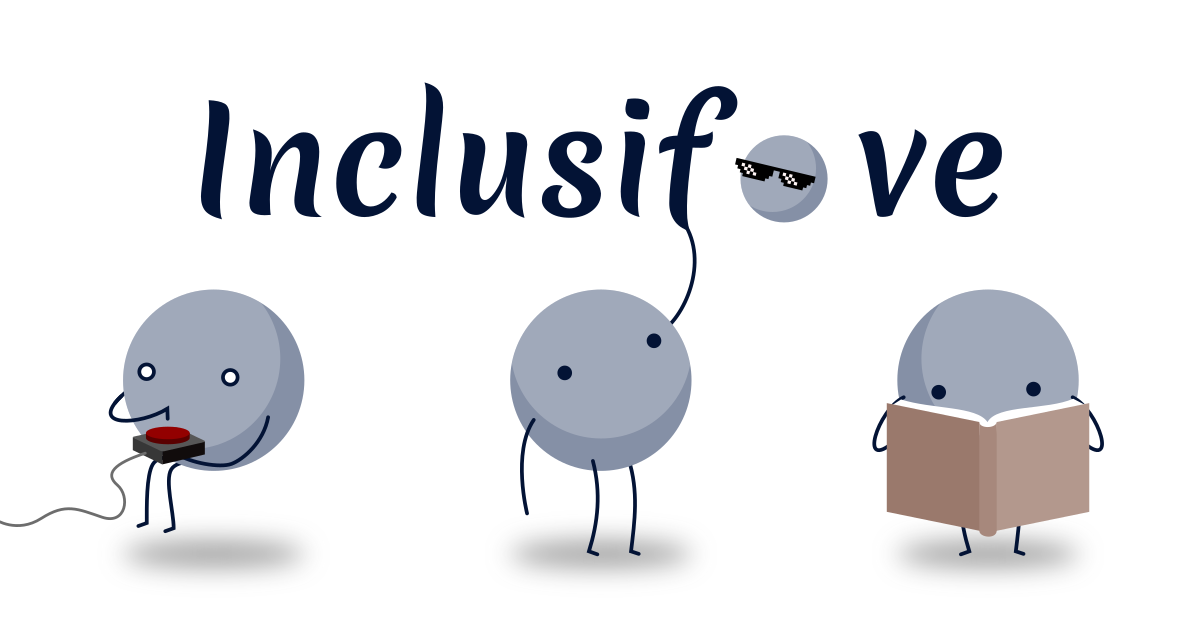
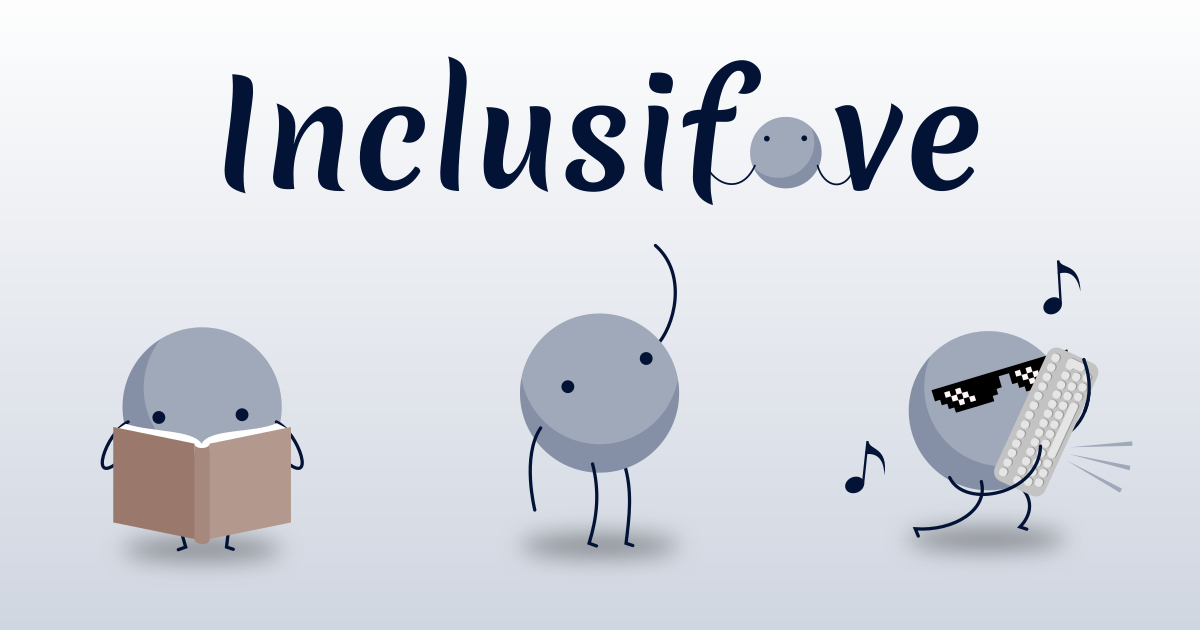
New section (outils)

diff --git a/index.html b/index.html
@@ -17,20 +17,23 @@ $(document).ready(function() {
 		});
 	}
 	
-	setClassScrollSpeed('.js-scroll-top-principe', 800);
-	setClassScrollSpeed('.js-scroll-top-questions', 900);
+	setClassScrollSpeed('.js-scroll-top-principe', 600);
+	setClassScrollSpeed('.js-scroll-top-questions', 800);
 	setClassScrollSpeed('.js-scroll-top-quiz', 1000);
+	setClassScrollSpeed('.js-scroll-top-outils', 1000);
 	
-	setClassScrollSpeed('.js-scroll-principe-top', 800);
-	setClassScrollSpeed('.js-scroll-questions-top', 900);
+	setClassScrollSpeed('.js-scroll-principe-top', 600);
+	setClassScrollSpeed('.js-scroll-questions-top', 800);
 	setClassScrollSpeed('.js-scroll-quiz-top', 1000);
+	setClassScrollSpeed('.js-scroll-outils-top', 1000);
 });
 </script>
 
 <ul class="menu">
 	<li><a class="js-scroll-top-principe" href="#principe"><img src="{{ site.basepath }}images/epicene-lecture.png" alt="Le principe"/><br/>Le principe</a></li>
 	<li><a class="js-scroll-top-questions" href="#questions"><img src="{{ site.basepath }}images/epicene-question.png" alt="Questions / Réponses"/><br/>Questions / Réponses</a></li>
-	<li><a class="js-scroll-top-quiz" href="#quiz"><img src="{{ site.basepath }}images/epicene-quizz.png" alt="Essayer le quiz"/><br/>Essayer le quiz</a></li>
+	<li><a class="js-scroll-top-quiz" href="#quiz"><img src="{{ site.basepath }}images/epicene-quiz.png" alt="Essayer le quiz"/><br/>Essayer le quiz</a></li>
+	<li><a class="js-scroll-top-outils" href="#outils"><img src="{{ site.basepath }}images/epicene-keyboard.png" alt="Outils"/><br/>Outils informatiques</a></li>
 </ul>
 
 <h2 id="principe">Le principe <a class="titleButton js-scroll-principe-top" href="#top"><i class="fa fa-chevron-up" aria-hidden="true"></i></a></h2>
@@ -117,3 +120,4 @@ $(document).ready(function() {
 %}
 
 <h2 id="quiz">Quiz <a class="js-scroll-quiz-top titleButton" href="#top"><i class="fa fa-chevron-up" aria-hidden="true"></i></a></h2>
+<h2 id="outils">Outils informatiques <a class="js-scroll-outils-top titleButton" href="#top"><i class="fa fa-chevron-up" aria-hidden="true"></i></a></h2>

diff --git a/_includes/header.html b/_includes/header.html
@@ -16,7 +16,7 @@
 	<meta property="og:url" content="{{ site.url }}/{{ page.permalink }}" />
 	<meta property="og:type" content="article" />
 
-	<script src="{{ site.basepath }}javascript/jquery-3.2.1.min.js" type="text/javascript"></script> 
+	<script src="{{ site.basepath }}javascript/jquery-3.2.1.min.js" type="text/javascript"></script>
 	<link rel="stylesheet" href="https://cdnjs.cloudflare.com/ajax/libs/font-awesome/4.7.0/css/font-awesome.min.css">
 	<link rel="stylesheet" href="{{ site.basepath }}/style.css" type="text/css" media="screen" />
 </head>

diff --git a/style.css b/style.css
@@ -33,7 +33,9 @@ header h1 img
 {
 	height: 1.5em;
 	position: relative;
-	top: 0.5em;
+	top: 0.55em;
+	margin-left: -0.4em;
+	margin-right: -0.4em;
 }
 
 h2
